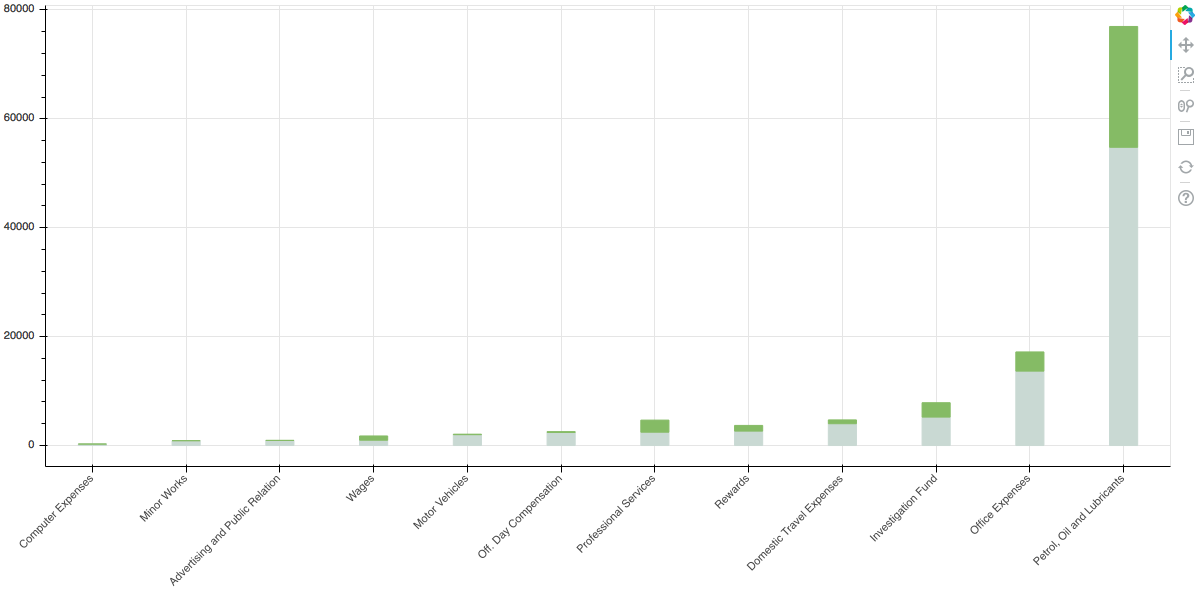
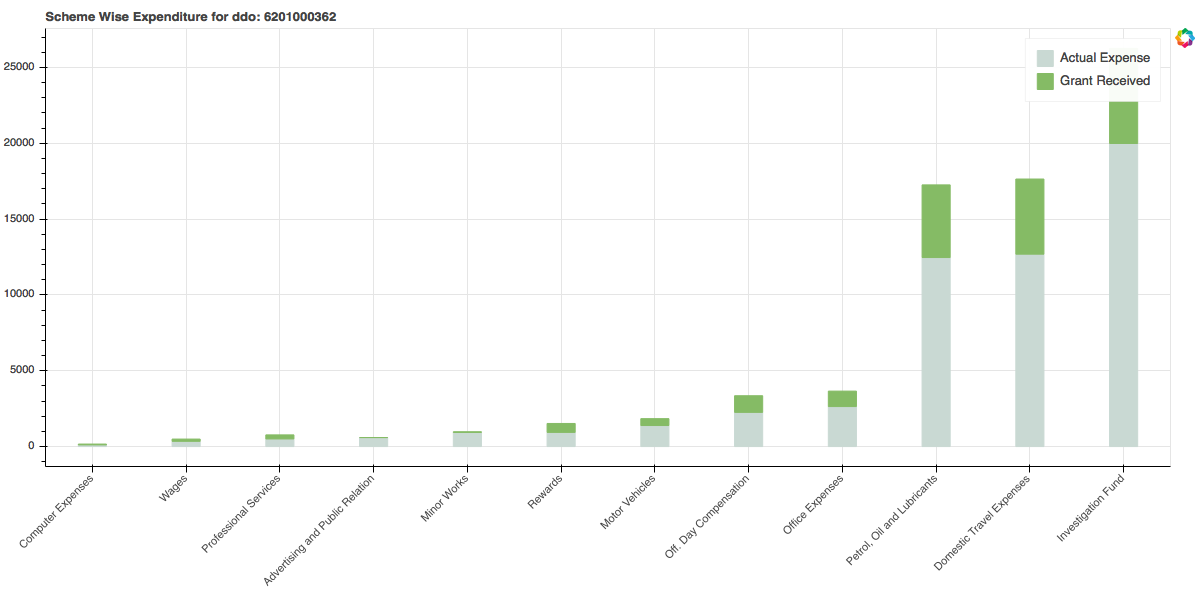
v 0.1

diff --git a/lines.html b/lines.html
@@ -34,13 +34,13 @@
         
           
           
-            <div class="bk-root" id="3609a767-b599-455b-ba66-fe2a95a657b6"></div>
+            <div class="bk-root" id="caabe6ac-20cb-477a-9bfc-86fe21fb08c8"></div>
           
         
       
       
-        <script type="application/json" id="8f3e4477-10d4-4a56-8d9d-ac0f8e9fd4be">
[1 lines of base64/hex data omitted]
+        <script type="application/json" id="a3eb7857-676d-4036-8bc8-266090dd92c5">
[1 lines of base64/hex data omitted]
         </script>
         <script type="text/javascript">
           (function() {
@@ -49,8 +49,8 @@
                 (function(root) {
                   function embed_document(root) {
                     
-                  var docs_json = document.getElementById('8f3e4477-10d4-4a56-8d9d-ac0f8e9fd4be').textContent;
-                  var render_items = [{"docid":"4dcf5e9b-c565-49fe-ba80-32fee14502f5","roots":{"4fc5119f-1679-48b2-a416-d2ad6dac426c":"3609a767-b599-455b-ba66-fe2a95a657b6"}}];
+                  var docs_json = document.getElementById('a3eb7857-676d-4036-8bc8-266090dd92c5').textContent;
+                  var render_items = [{"docid":"b6396df5-508f-4dbf-9822-2f02946ce169","roots":{"dcbb645d-707b-44d3-80a3-7aaf6b156bee":"caabe6ac-20cb-477a-9bfc-86fe21fb08c8"}}];
                   root.Bokeh.embed.embed_items(docs_json, render_items);
                 
                   }

diff --git a/util/bargraph.py b/util/bargraph.py
@@ -4,9 +4,10 @@ import math
 from bokeh.io import export_png
 from bokeh.models import ColumnDataSource
 from bokeh.plotting import figure, output_file
+from bokeh.core.properties import value
+from bokeh.models import LabelSet
 
-
-def gen_graph(df):
+def gen_graph(df,ddo):
     df.sort_values('Grant Received', inplace=True)
     x = df['Scheme & Detail Head']
     y1 = df['Grant Received']
@@ -22,11 +23,14 @@ def gen_graph(df):
     output_file("lines.html", title="line plot example")
 
     plot = figure(plot_width=1200, plot_height=600,
-                  x_minor_ticks=2,
-                  x_range=x)
+                  x_minor_ticks=2, tools="",
+                  x_range=x, title='Scheme Wise Expenditure for ddo: {0}'.format(ddo))
 
-    plot.vbar_stack(['Grant Received', 'Actual Exp'], source=data, x='SDH', width=0.3, color=["#c9d9d3", "#85bb65"])
+    plot.vbar_stack(['Grant Received', 'Actual Exp'],legend=[value(x) for x in ['Actual Expense', 'Grant Received']], source=data, x='SDH', width=0.3, color=["#c9d9d3", "#85bb65"])
+
 
     plot.xaxis.major_label_orientation = math.pi / 4
     export_png(plot, 'plot.png')
+
+
     return plot

diff --git a/util/email.py b/util/email.py
@@ -1,0 +1,30 @@
+import smtplib as mail
+from email.mime.multipart import MIMEMultipart
+from email.mime.text import MIMEText
+from email.mime.image import MIMEImage
+
+
+def compose_and_send(fromaddr, frompass, toaddr, name, data, imgfile='plot.png'):
+    msg = MIMEMultipart()
+    msg['From'] = fromaddr
+    msg['To'] = toaddr
+    msg['Subject'] = "DDO Expense reminder"
+    body = '%s<br><img src="cid:%s" style = "width:900px;"><br>' % (data.format(name=name), imgfile)
+
+    fp = open(imgfile, 'rb')
+    msgImage = MIMEImage(fp.read())
+    fp.close()
+
+    msgImage.add_header('Content-ID', '<{}>'.format(imgfile))
+    msg.attach(MIMEText(body, 'html'))
+    msg.attach(msgImage)
+    send(msg, fromaddr, frompass, toaddr)
+
+
+def send(msg, fromaddr, frompass, toaddr):
+    text = msg.as_string()
+    s = mail.SMTP('smtp.gmail.com', 587)
+    s.starttls()
+    s.login(fromaddr, frompass)
+    s.sendmail(fromaddr, toaddr, text)
+    print("email has been sent")

diff --git a/driver.py b/driver.py
@@ -1,10 +1,8 @@
-from bokeh.plotting import show
-
 from util import bargraph as bar
 from util import parse as parser
+from bokeh.plotting import show
 from util import request as req
-
-
+from util import email as em
 def get_data(ddo):
     url = req.get_fund_url(ddo=ddo)
     html = req.get_raw_html(url)
@@ -13,6 +11,17 @@ def get_data(ddo):
     df = parser.process_dataframe(raw_df)
     return df
 
-df = get_data(str(2201000450))
-plot = bar.gen_graph(df)
-show(plot)
+
+ddo = 6201000362
+df = get_data(str(ddo))
+plot = bar.gen_graph(df, ddo)
+
+
+def frame_data(df):
+    df.sort_values('Grant Received', inplace=True)
+    data = "Dear {name},<BR>Below is the DDO Scheme Wise Expenditure Summary<BR><CENTER>" + df.to_html(index=False, justify='center') + "<CENTER><BR>"
+    return data
+
+em.compose_and_send(fromaddr='feedback.strategy@gmail.com',frompass='26jan@2018',toaddr='ugemugeshreyas@gmail.com',name='Mr. Test Email',data=frame_data(df))
+
+

diff --git a/util/parse.py b/util/parse.py
@@ -20,6 +20,7 @@ def view_df(df):
 
 def process_dataframe(raw_df):
     dict = db.get_scheme_dict()
+
     # map last two characters with particular heads
     raw_df['Scheme & Detail Head'] = raw_df['Scheme & Detail Head'].map(lambda x: str(x)[-2:]).map(dict)
 
